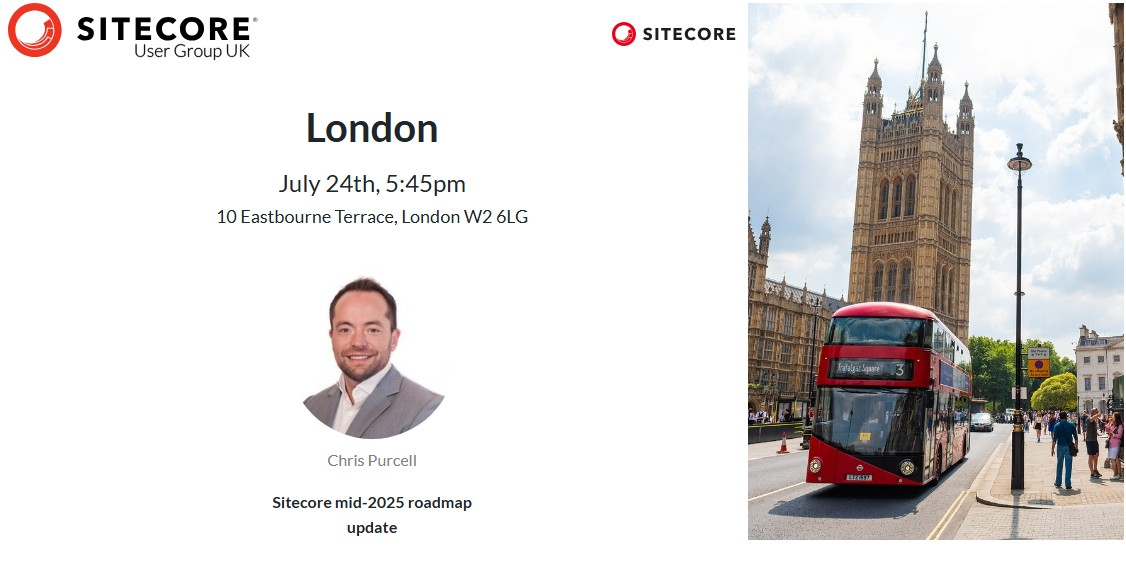
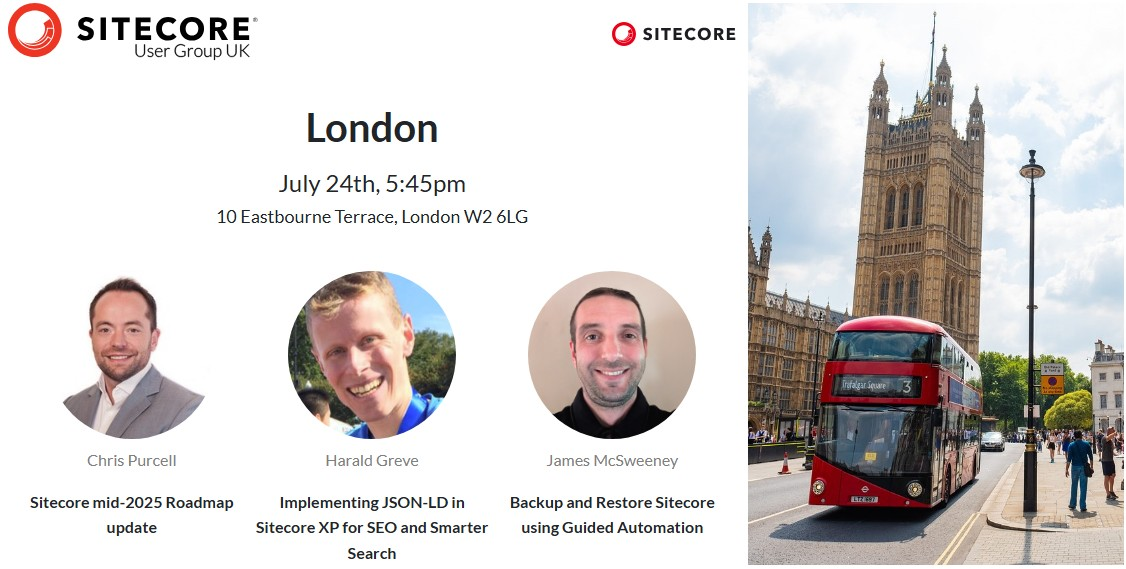
London July 2025 - Updated (#215)
* London July 2025 event

* Fixed TBD talk in July 2025

* Updated July 2025 event

diff --git a/scripts/export-event-ads.ts b/scripts/export-event-ads.ts
@@ -1,6 +1,7 @@
 import chromium from 'chrome-aws-lambda';
 import puppeteer from 'puppeteer-core';
 import { Dirent, promises as fs } from 'fs';
+import fsSync from 'fs';
 import handler from 'serve-handler';
 import http from 'http';
 
@@ -44,6 +45,13 @@ const generate = async () => {
 
   const tasks = eventFiles.map((file: Dirent) => async () => {
     const event = file.name.replace('.html', '');
+    const filename = `${eventsExportFolder}/${event}-image.jpg`;
+
+    if (fsSync.existsSync(filename)) {
+      console.log('Skipping existing file ' + filename);
+      return;
+    }
+
     console.log('Loading event ' + event);
 
     const page = await browser.newPage();
@@ -66,7 +74,7 @@ const generate = async () => {
       },
     });
 
-    await fs.writeFile(`${eventsExportFolder}/${event}-image.jpg`, screenshot as Buffer, 'binary');
+    await fs.writeFile(filename, screenshot as Buffer, 'binary');
 
     console.log('Saved screenshot for ' + event);
     await page.close();
